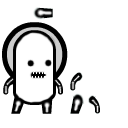
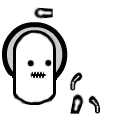
xray now triggered by player

diff --git a/Assets/04/Scripts/gbXray.cs b/Assets/04/Scripts/gbXray.cs
@@ -1,0 +1,45 @@
+using UnityEngine;
+using System.Collections;
+
+public class gbXray : MonoBehaviour {
+
+    public GameObject mask;
+
+    private float maxSize = 3;
+    private float spinSpeed = -100;
+
+    private float pulseStart = -1;
+    private float pulseDuration = 2;
+
+    public void Start() {
+
+    }
+    public void Update() {
+        if (pulseStart != -1) {
+            float percent = (Time.time - pulseStart) / pulseDuration;
+            if(percent >= 1) {
+                mask.SetActive(false);
+                pulseStart = -1;
+            } else {
+                float scale;
+                if(percent > .8f) {
+                    scale = (1 - ((percent - .8f) * 5)) * maxSize;
+                } else if(percent < .2f) {
+                    scale = 5 * percent * maxSize;
+                } else {
+                    scale = maxSize;
+                }
+                mask.transform.localScale = new Vector3(scale, scale, scale);
+
+                Vector3 rot = mask.transform.localRotation.eulerAngles;
+                rot.z += spinSpeed * Time.deltaTime;
+                mask.transform.localRotation = Quaternion.Euler(rot);
+            }
+        }
+    }
+
+    public void DoXray() {
+        pulseStart = Time.time;
+        mask.SetActive(true);
+    }
+}

diff --git a/Assets/04/Scripts/gbPlayer.cs b/Assets/04/Scripts/gbPlayer.cs
@@ -11,7 +11,8 @@ public class gbPlayer : MonoBehaviour {
     private float gravity; // comes from rigidbody2D
     CharacterController2D cc;
     Animator anim;
-    
+    gbXray xray;
+
     private bool didJump;
 
     public void Start() {
@@ -20,11 +21,15 @@ public class gbPlayer : MonoBehaviour {
         cc.onTriggerEnterEvent += OnTriggerEnter2D;
         cc.onTriggerExitEvent += OnTriggerExit2D;
         anim = GetComponentInChildren<Animator>();
+        xray = GetComponent<gbXray>();
     }
 
     public void Update() {
-        if (Input.GetButtonDown("Jump")) {
+        if (Input.GetKeyDown(KeyCode.UpArrow)) {
             didJump = true;
+        }
+        if (Input.GetButtonDown("Jump")) {
+            xray.DoXray();
         }
     }
 
@@ -53,9 +58,9 @@ public class gbPlayer : MonoBehaviour {
     }
 
     public void OnTriggerEnter2D(Collider2D other) {
-        Debug.Log("+++ OnTriggerEnter2D with " + other.name);
+        //Debug.Log("+++ OnTriggerEnter2D with " + other.name);
     }
     public void OnTriggerExit2D(Collider2D col) {
-        Debug.Log("+++ OnTriggerExit2D with " + col.name);
+        //Debug.Log("+++ OnTriggerExit2D with " + col.name);
     }
 }
